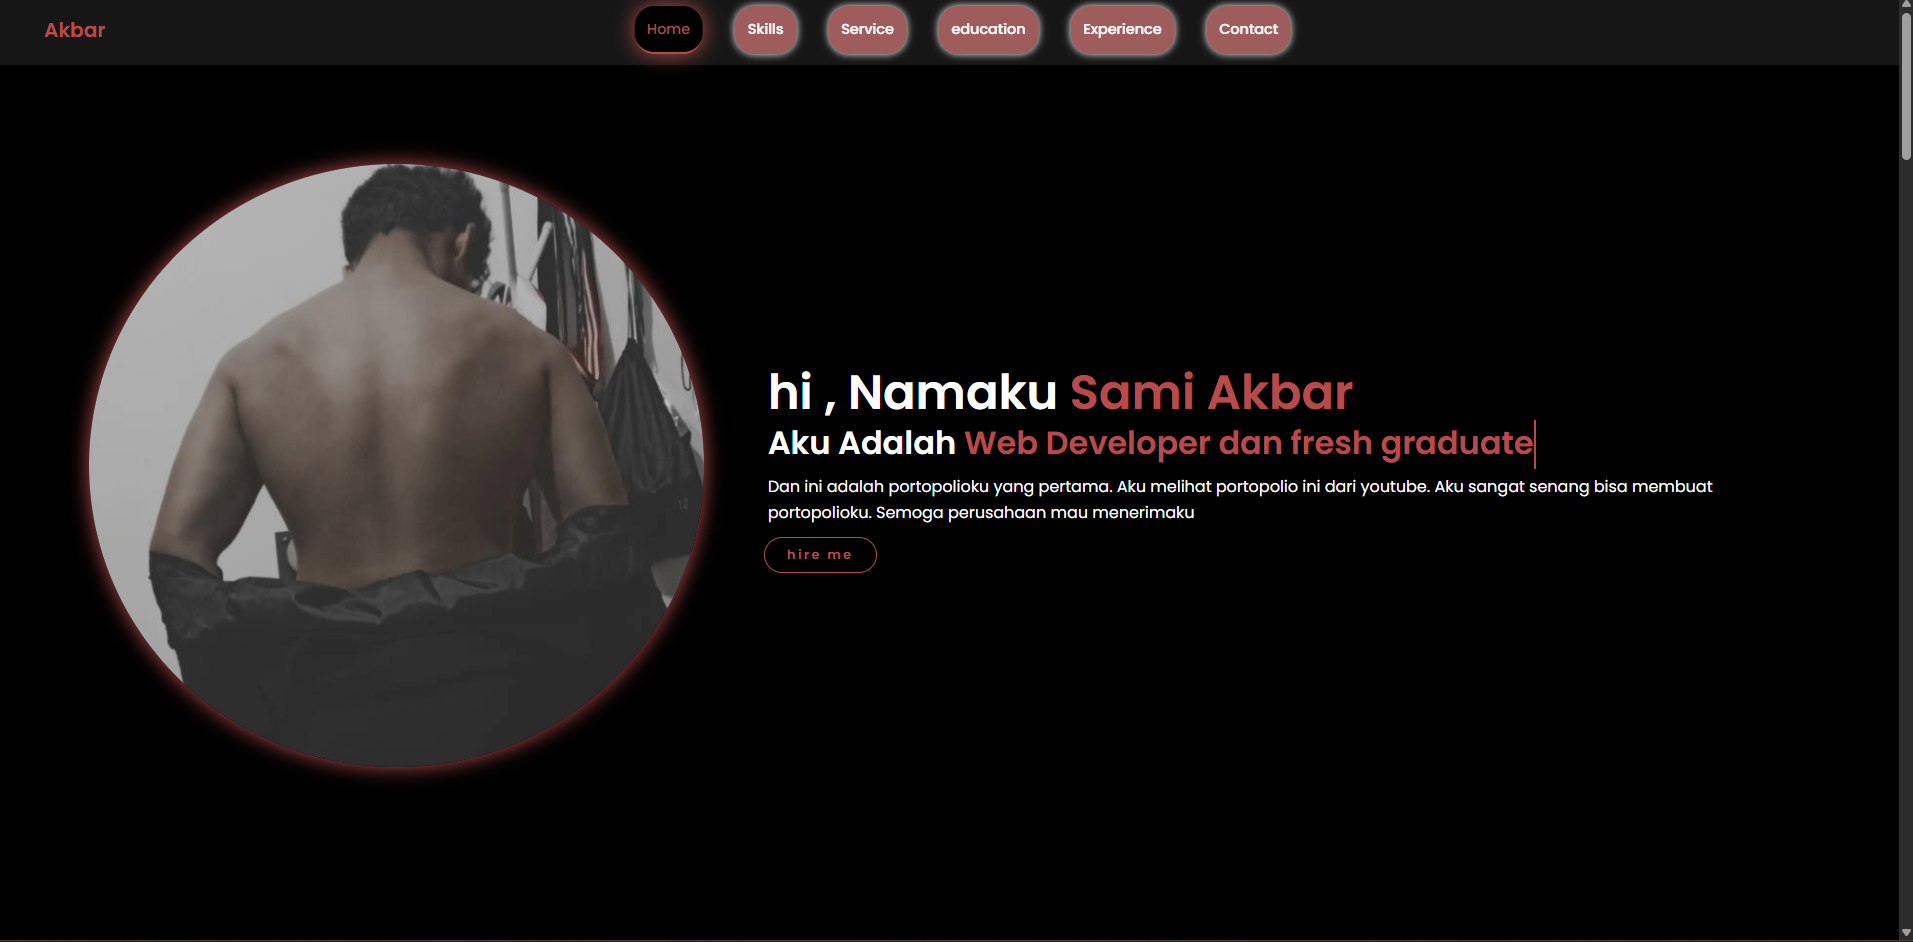
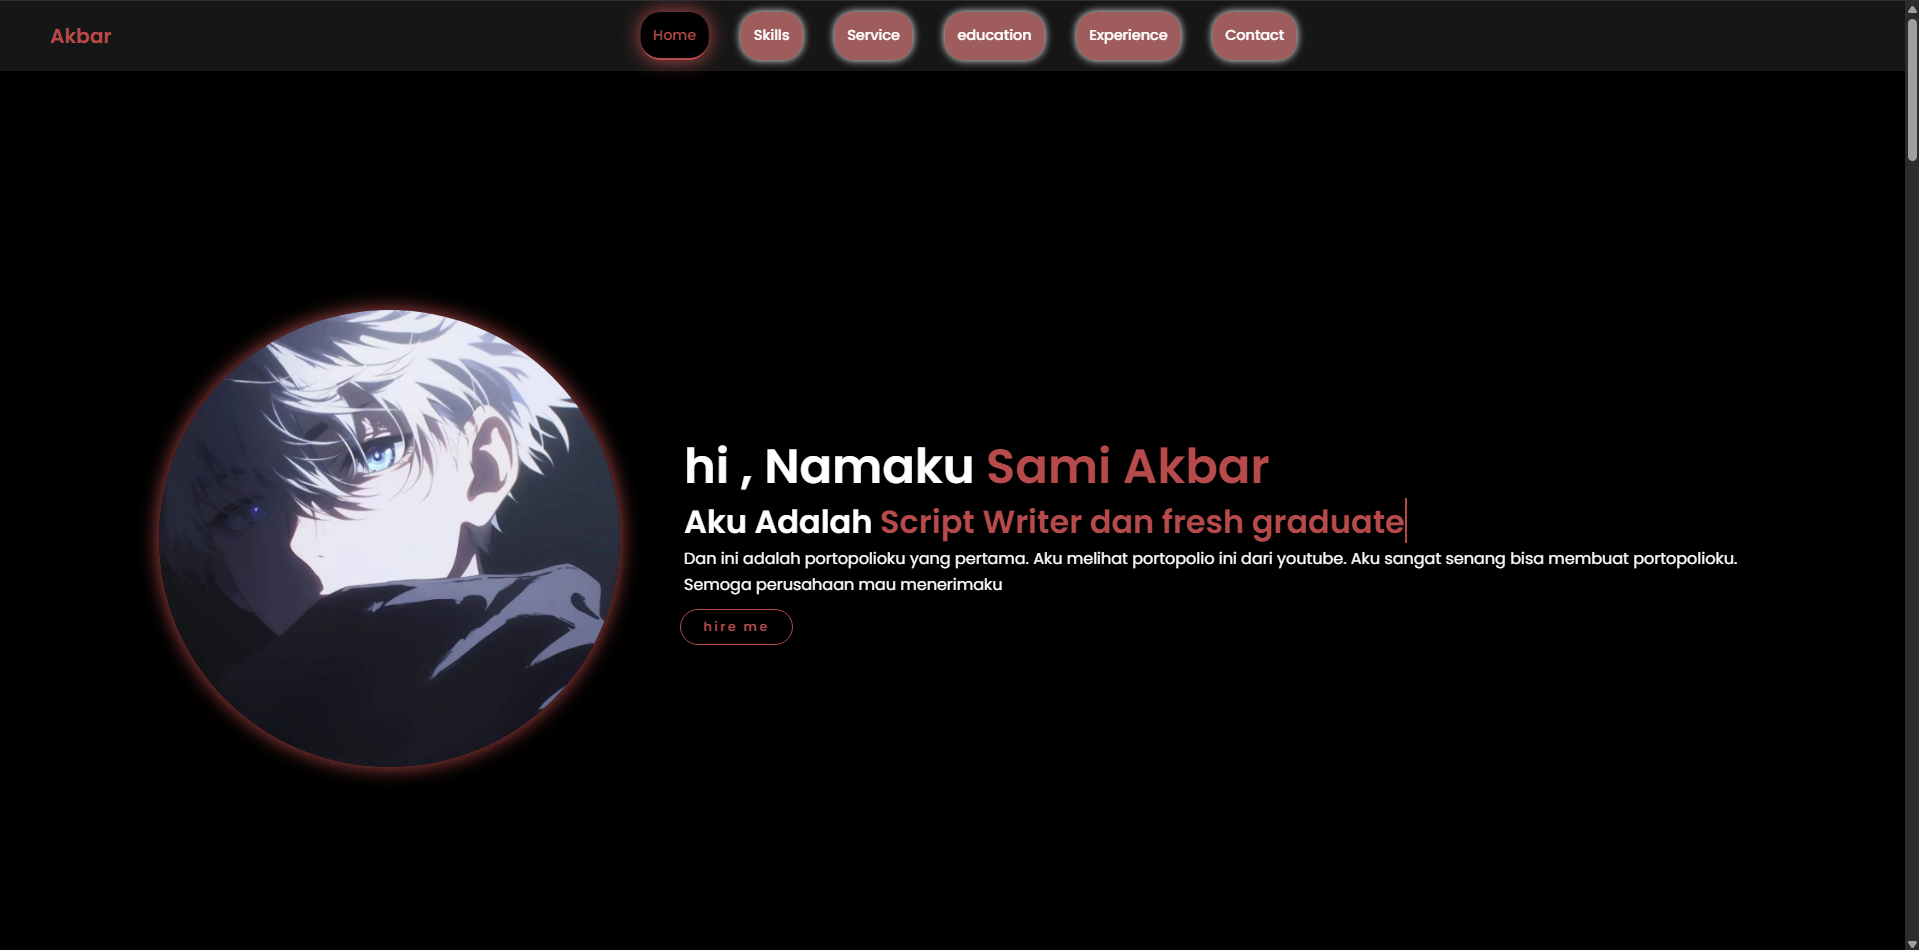
commit photo

diff --git a/index.html b/index.html
@@ -35,7 +35,7 @@
     
     <section class="home hidden-section" id="home-page">
         <div class="home-image">
-            <img src="img/profile.png" alt="profile">
+            <img src="img/gojo.jpg" alt="profile">
         </div>
         <div class="home-content">
             <h1>hi , Namaku <span>Sami Akbar</span></h1>
